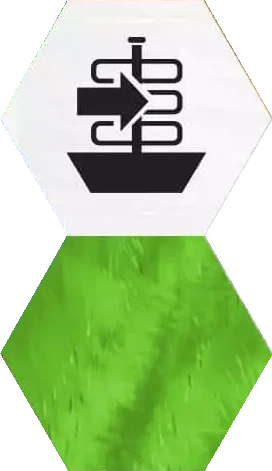
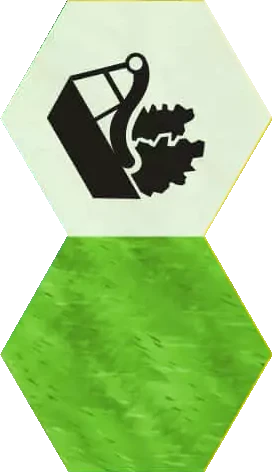
Swap the Adventure and Entrance sprites

diff --git a/scripts/build_enclosure_sprites.py b/scripts/build_enclosure_sprites.py
@@ -45,7 +45,7 @@ STANDARD = {
 ICONS = {
     "victory": (2, 0), "victory_mw": (11, 1), "arcade": (4, 0), "meerkat": (3, 9), "penguin": (9, 1), "polar-bear": (1, 15), "owl": (7, 5),
     "sea-turtle": (7, 11), "okapi": (7, 13), "water-playground": (7, 15), "monkey": (8, 4), "amazon": (11, 17), "hyena": (9, 7),
-    "adventure": (9, 15), "aquarium": (10, 4), "baboon": (10, 12), "cable": (11, 11), "entrance": (8, 8), "excavation": (0, 20),
+    "adventure": (8, 8), "aquarium": (10, 4), "baboon": (10, 12), "cable": (11, 11), "entrance": (9, 15), "excavation": (0, 20),
     "zoo-school": (5, 15),
 }
 # the underwater tunnel has no silhouette hex: its two cells are drawn as one picture across the cell border
